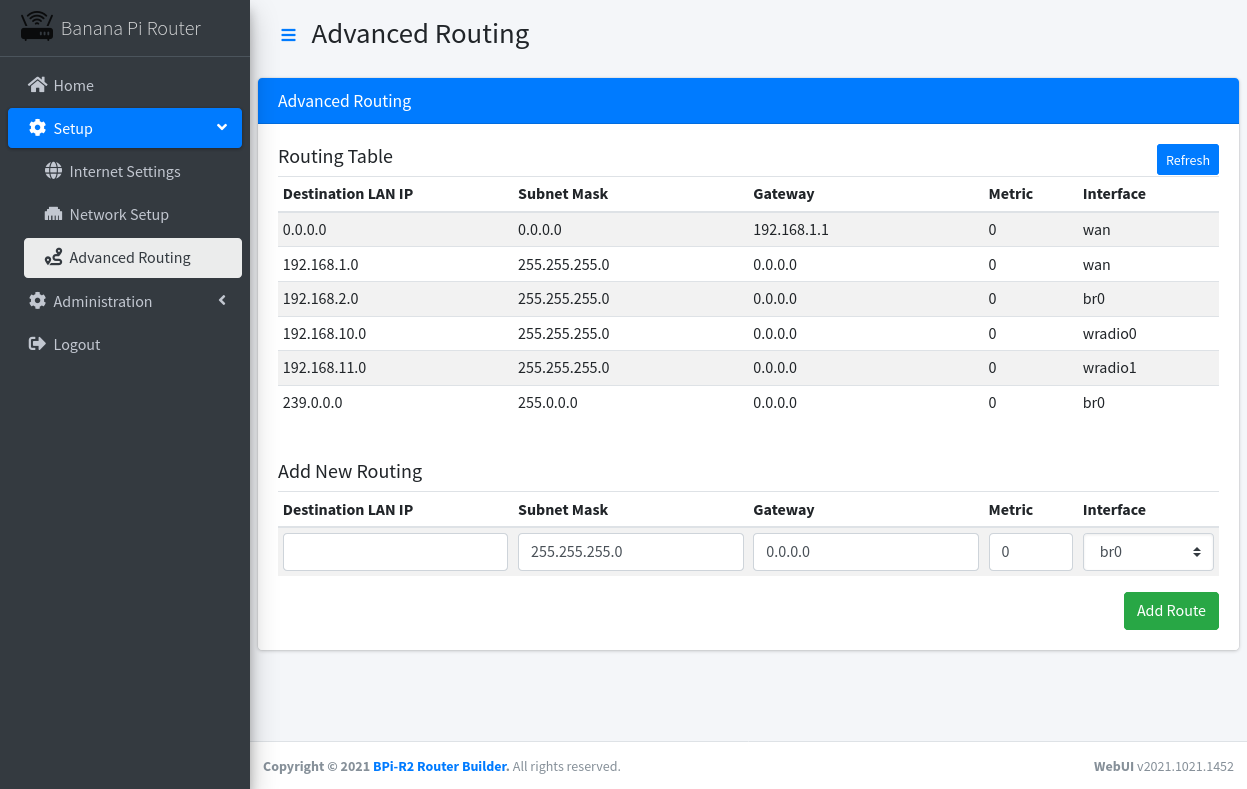
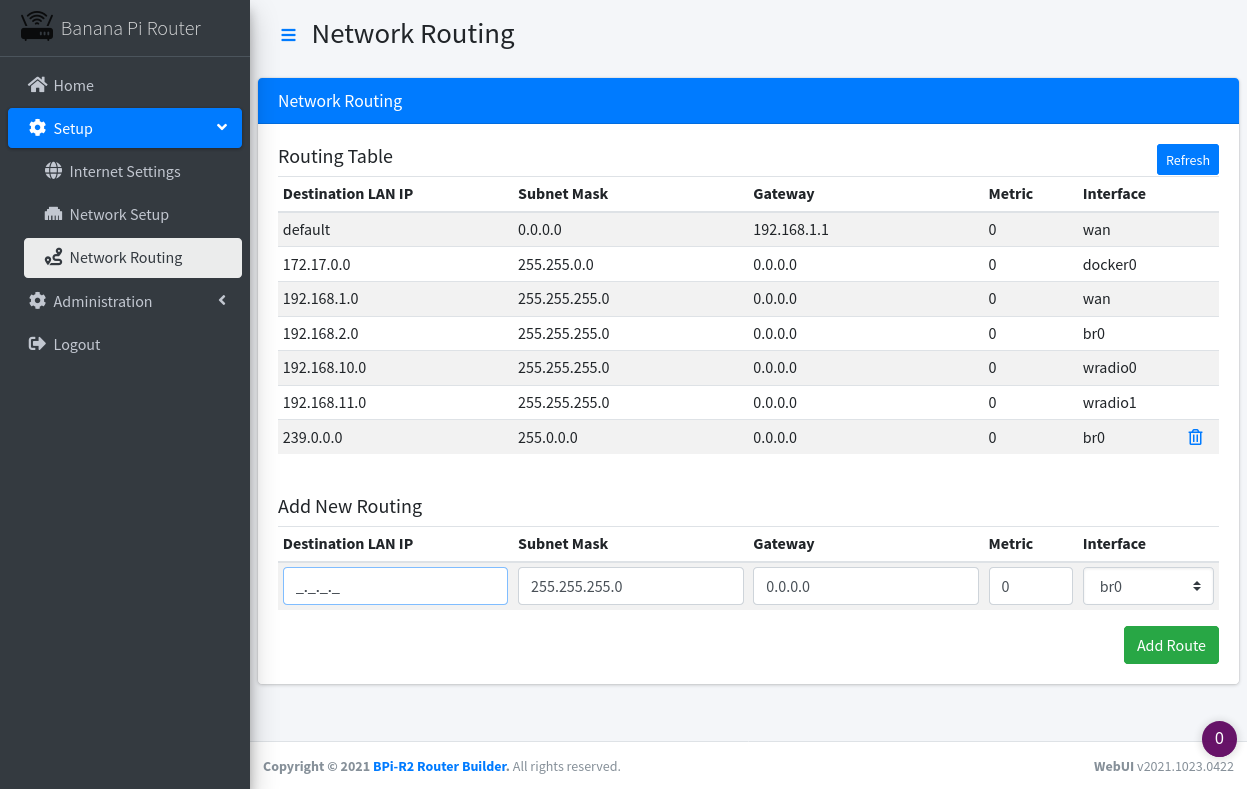
Updated WebUI Setup Routing

diff --git a/router/js/site-setup.js b/router/js/site-setup.js
@@ -351,7 +351,12 @@ function LAN_Reservation_Confirmed()
 function LAN_Error(msg)
 {
 	$("#dhcp_error_msg").html(msg);
-	$("#dhcp_error_box").removeClass("hidden");
+	$("#dhcp_error_box").slideDown(400, function() {
+		timer = setInterval(function() {
+			$("#dhcp_error_box").slideUp();
+			clearInterval(timer);
+		}, 5000);
+	});
 }
 
 //======================================================================================================
@@ -382,7 +387,7 @@ function Routing_Refresh()
 function Routing_Delete()
 {
 	// Assemble the post data for the AJAX call:
-	line = $(this).parent().parent().parent().parent().parent();
+	line = $(this).parent().parent().parent().parent();
 	postdata = {
 		'sid':       SID,
 		'action':    'delete',
@@ -417,7 +422,7 @@ function Routing_Add()
 		'metric':    $("#metric").val(),
 		'iface':     $("#iface").val(),
 	};
-	alert(JSON.stringify(postdata, null, 5)); return;
+	//alert(JSON.stringify(postdata, null, 5)); return;
 
 	// Perform our AJAX request to add the IP reservation:
 	$.post("/ajax/setup/routing", postdata, function(data) {

diff --git a/router/includes/ajax-setup-routing.php b/router/includes/ajax-setup-routing.php
@@ -6,12 +6,37 @@ if (empty($_POST['action']) || !isset($_POST['sid']) || $_POST['sid'] != $_SESSI
 }
 
 ###################################################################################################
-# Supporting function:
+# Supporting functions:
 ###################################################################################################
 function ip_range_cmd($dest_addr, $mask_addr, $gate_addr, $dev, $metric)
 {
 	$mask = $mask_addr == "0.0.0.0" ? 0 : 32-log(( ip2long($mask_addr) ^ ip2long('255.255.255.255') ) + 1, 2);
 	return "ip route add " . $dest_addr . "/" . $mask . " via " . $gate_addr . " dev " . $dev . " metric " . $metric;
+}
+
+function validate_params()
+{
+	$_POST['dest_addr'] = isset($_POST['dest_addr']) ? $_POST['dest_addr'] : '';
+	if (!filter_var($_POST['dest_addr'], FILTER_VALIDATE_IP, FILTER_FLAG_IPV4))
+		die('[DEST_ADDR] ERROR: "' . $_POST['dest_addr'] . '" is an invalid IPv4 address!');
+
+	$_POST['mask_addr'] = isset($_POST['mask_addr']) ? $_POST['mask_addr'] : '';
+	if (!filter_var($_POST['dest_addr'], FILTER_VALIDATE_IP, FILTER_FLAG_IPV4))
+		die('[MASK_ADDR] ERROR: "' . $_POST['mask_addr'] . '" is an invalid IPv4 address!');
+
+	$_POST['gate_addr'] = isset($_POST['gate_addr']) ? $_POST['gate_addr'] : '';
+	if (!filter_var($_POST['gate_addr'], FILTER_VALIDATE_IP, FILTER_FLAG_IPV4))
+		die('[GATE_ADDR] ERROR: "' . $_POST['gate_addr'] . '" is an invalid IPv4 address!');
+
+	$_POST['metric'] = isset($_POST['metric']) ? intval($_POST['metric']) : -1;
+	if ($_POST['metric'] < 0 || $_POST['metric'] > 9999)
+		die('[METRIC] ERROR: "' . $_POST['metric'] . '" is outside allowed range (0-9999)!');
+
+	$_POST['iface'] = isset($_POST['iface']) ? $_POST['iface'] : '';
+	if (empty($_POST['iface']) || !file_exists("/sys/class/net/" . $_POST['iface']))
+		die('[IFACE] ERROR: "' . $_POST['iface'] . '" is not a valid network interface!');
+
+	return ip_range_cmd($_POST['dest_addr'], $_POST['mask_addr'], $_POST['gate_addr'], $_POST['iface'], $_POST['metric']);
 }
 
 ###################################################################################################
@@ -36,6 +61,37 @@ if ($_POST['action'] == 'show')
 				'<td>', strpos($routes[$a[7]], ip_range_cmd($a[0], $a[2], $a[1], $a[7], $a[4])) ? $delete : '', '</td>',
 			'</tr>';
 	}
+}
+###################################################################################################
+# ACTION: DELETE ==> Remove specified ip routing from the system configuration:
+###################################################################################################
+else if ($_POST['action'] == 'delete')
+{
+	$out = validate_params();
+	if (!file_exists('/etc/network/if-up.d/' . $_POST['iface'] . '-route'))
+		die('ERROR: Post-up script does not exist for interface "' . $_POST['iface'] . '"!');
+	@shell_exec('cat /etc/network/if-up.d/' . $_POST['iface'] . '-route | grep -v "' . $out . '" > /tmp/' . $_POST['iface'] . '-route');
+	@shell_exec('/opt/bpi-r2-router-builder/router-helper.sh route move ' . $_POST['iface'] . '-route');
+	echo @shell_exec('/opt/bpi-r2-router-builder/router-helper.sh route ' . str_replace("ip route add", "del", $out));
+}
+###################################################################################################
+# ACTION: ADD ==> Add specified ip routing to the system configuration:
+###################################################################################################
+else if ($_POST['action'] == 'add')
+{
+	$out = validate_params();
+	if (!file_exists('/etc/network/if-up.d/' . $_POST['iface'] . '-route'))
+		$text = 'if [[ "${IFACE}" == "' . $_POST['iface'] . '" ]]; then' . "\n\t" . $out . "\nfi";
+	else
+	{
+		$text = @file_get_contents('/etc/network/if-up.d/' . $_POST['iface'] . '-route');
+		$text = str_replace("fi", "\t" . $out . "\nfi", $text);
+	}
+	$handle = fopen("/tmp/" . $_POST['iface'] . "-route", "w");
+	fwrite($handle, $text);
+	fclose($handle);
+	@shell_exec('/opt/bpi-r2-router-builder/router-helper.sh route move ' . $_POST['iface'] . '-route');
+	echo @shell_exec('/opt/bpi-r2-router-builder/router-helper.sh route ' . str_replace("ip route ", "", $out));
 }
 ###################################################################################################
 # ACTION: Anything else ==> Return error message

diff --git a/router/includes/subs/site.php b/router/includes/subs/site.php
@@ -13,7 +13,7 @@ $sidebar_menu = array(
 #		'firewall' => menu_link('/setup/firewall', 'Firewall Setup', 'fas fa-shield-alt'),
 		'wired'    => menu_link('/setup/lan', 'Network Setup', 'fas fa-ethernet'),
 #		'wireless' => menu_link('/setup/wireless', 'Wireless Setup', 'fas fa-wifi'),
-		'routing'  => menu_link('/setup/routing', 'Advanced Routing', 'fas fa-route'),
+		'routing'  => menu_link('/setup/routing', 'Network Routing', 'fas fa-route'),
 	)),
 	'storage'    => array('Storage', 'fas fa-hdd', array(
 #		'basic'    => menu_link('/storage/usb-basic', 'Basic Settings', 'fab fa-usb'),

diff --git a/router/includes/setup-routing.php b/router/includes/setup-routing.php
@@ -20,7 +20,7 @@ function thead()
 echo '
 <div class="card card-primary">
 	<div class="card-header">
-		<h3 class="card-title">Advanced Routing</h3>
+		<h3 class="card-title">Network Routing</h3>
 	</div>
 	<div class="card-body">
 		<div class="alert alert-danger hidden" id="dhcp_error_box">
